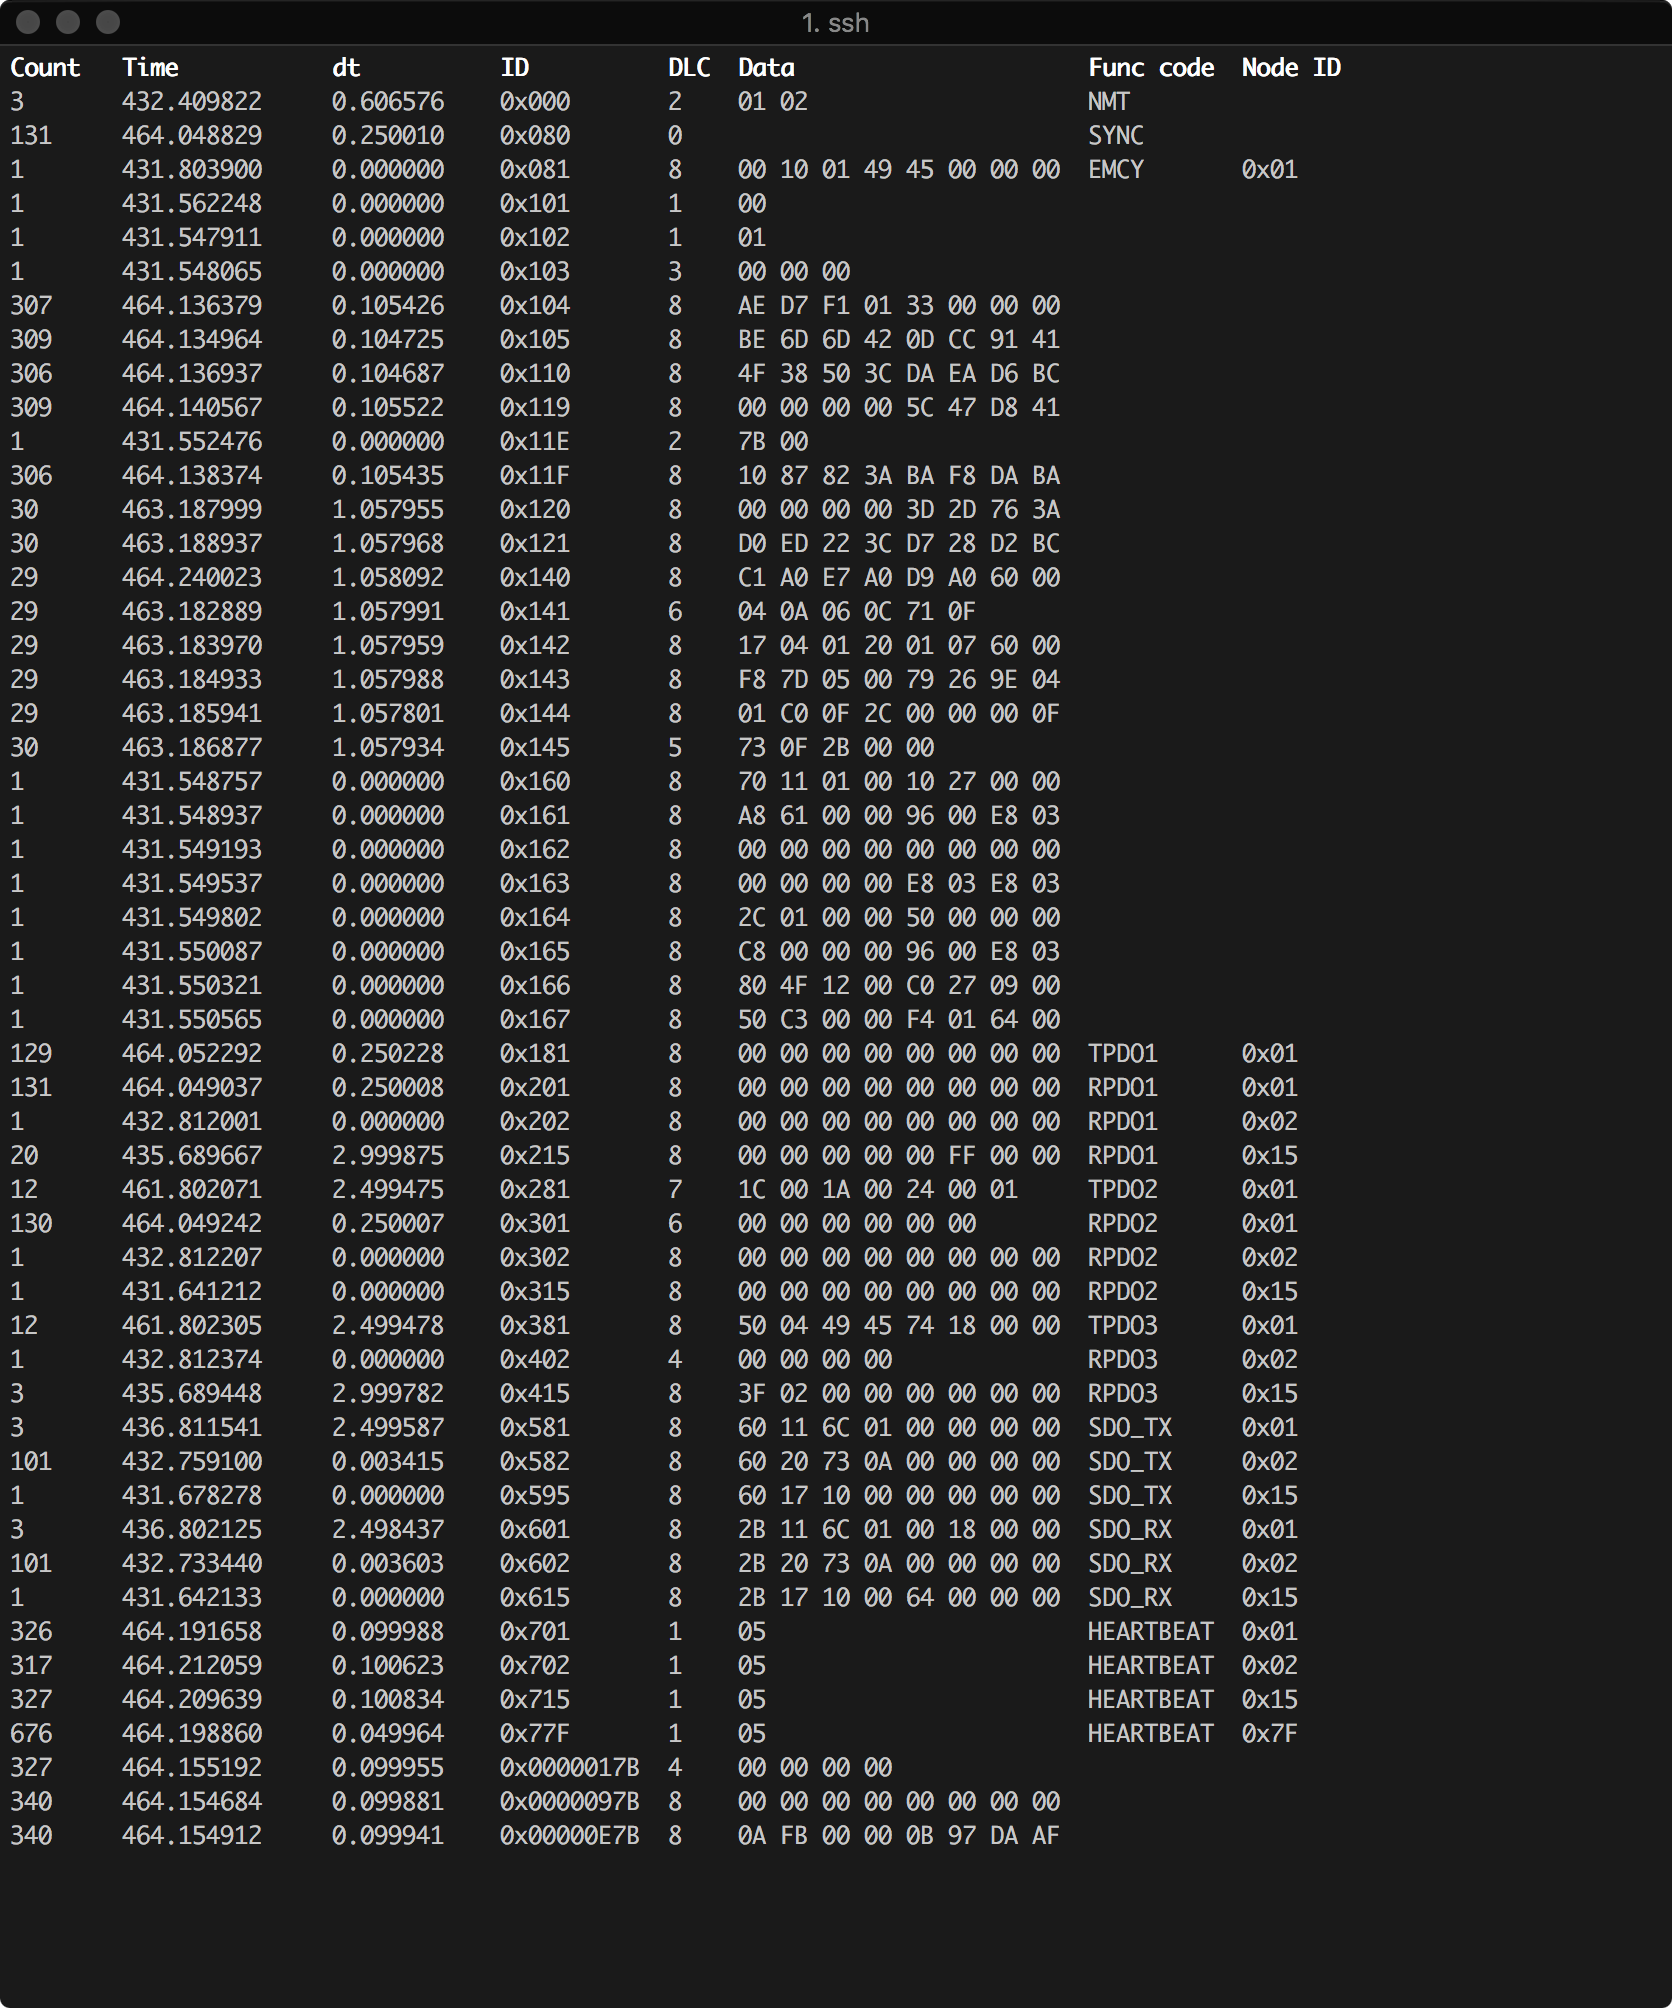
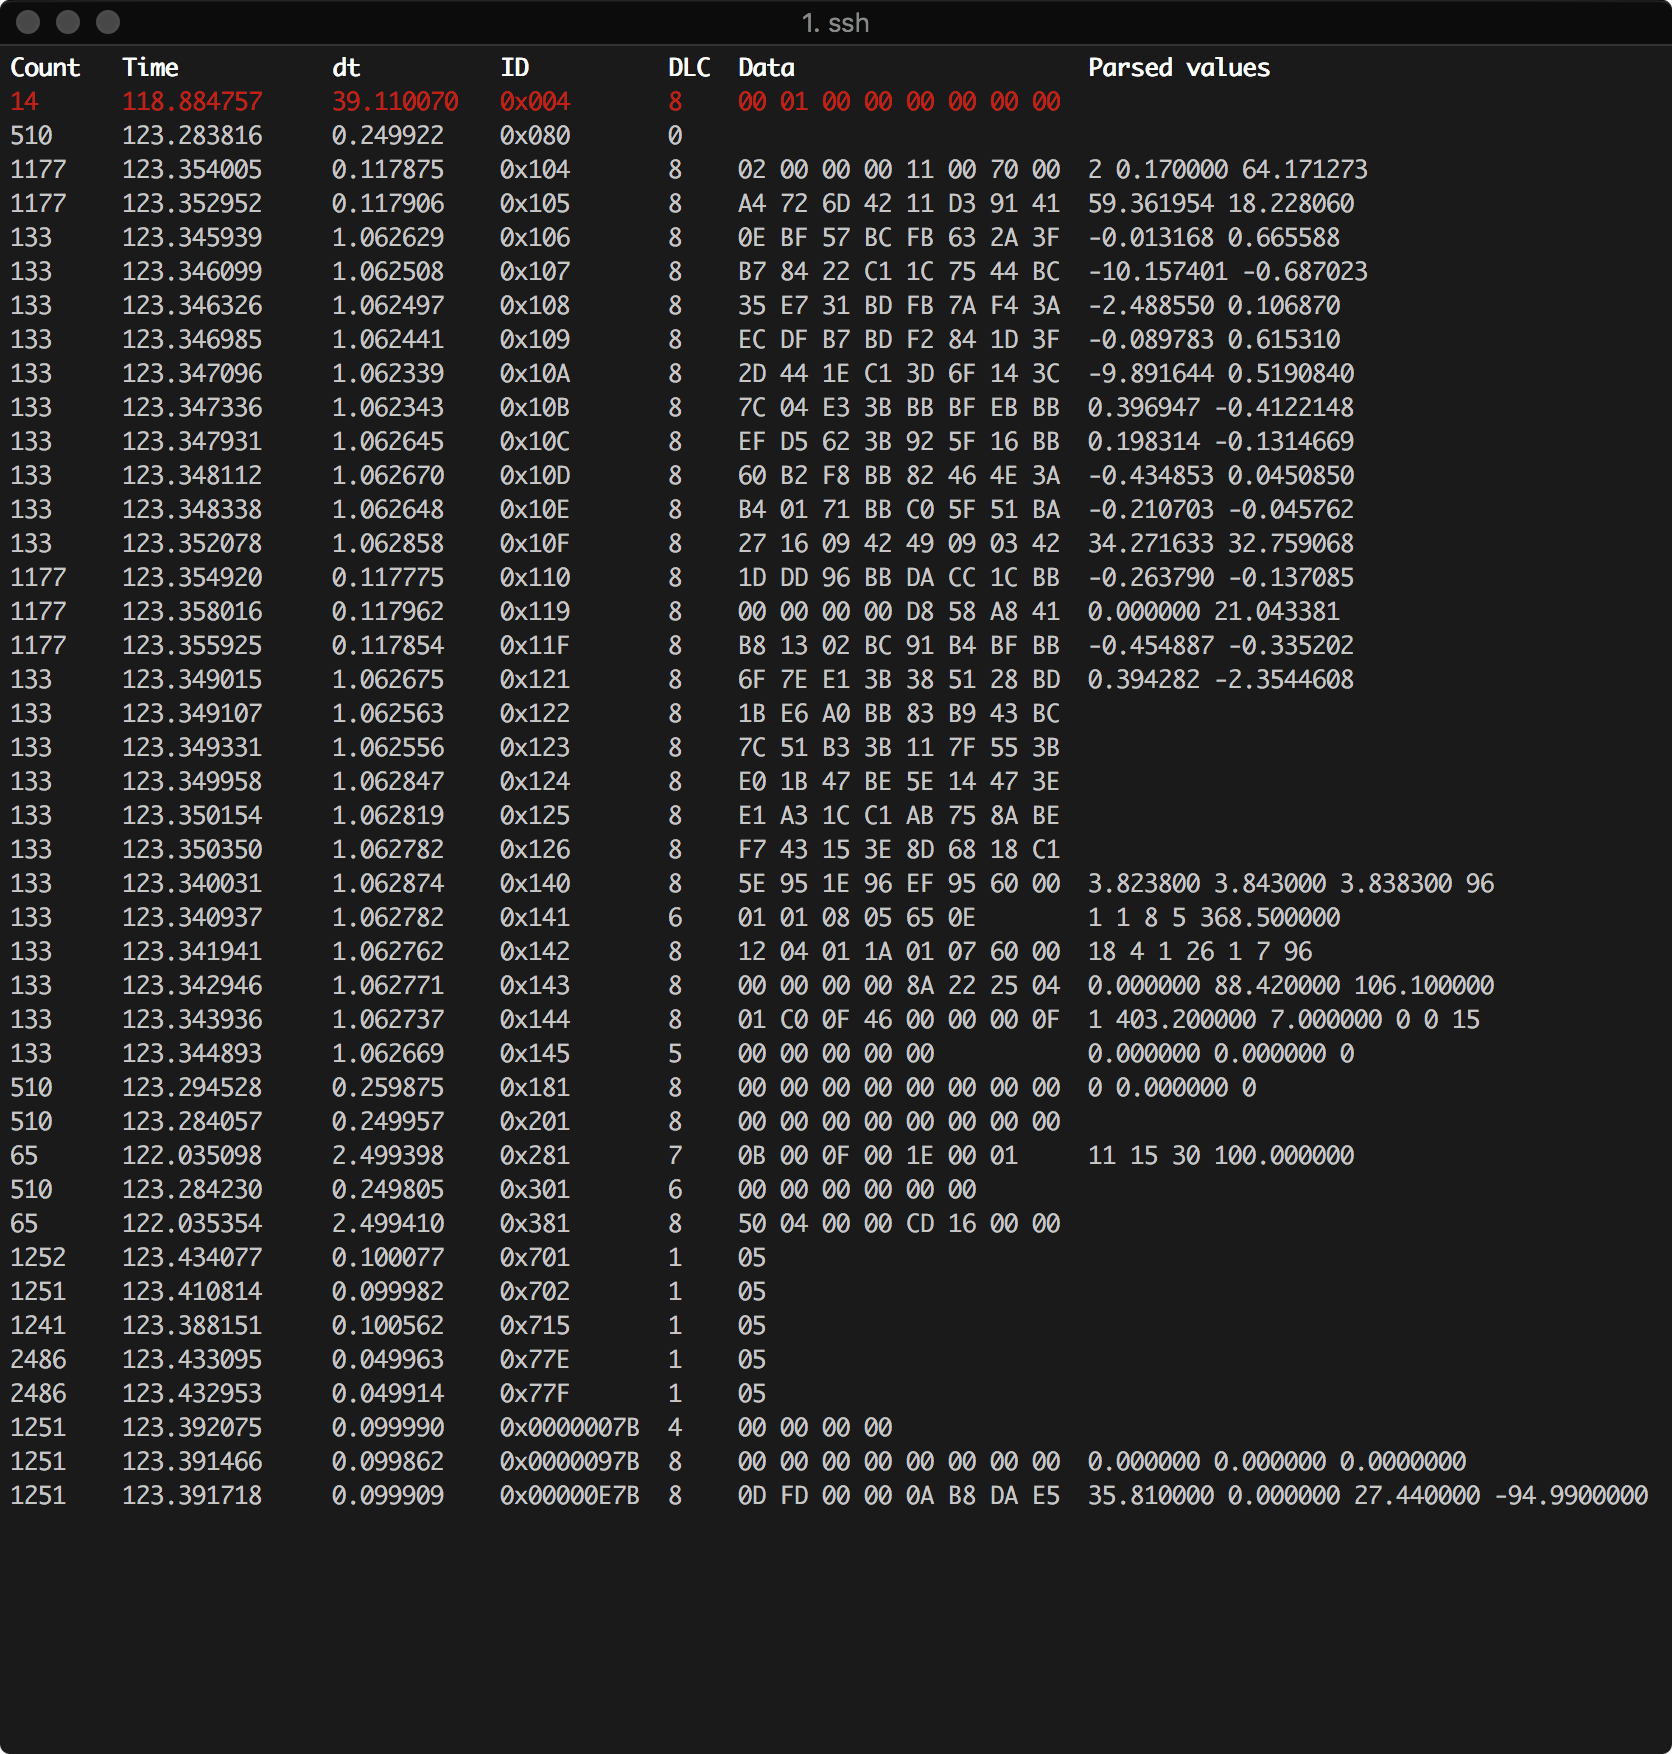
Removed CANopen from the documentation and take new screenshot showing how the decoding looks like

Changed region(s): [[0.4043, 0.0, 0.9952, 0.9236], [0.1866, 0.0308, 0.4043, 0.9236], [0.0, 0.0, 0.1555, 0.9236]]

diff --git a/doc/scripts.rst b/doc/scripts.rst
@@ -92,9 +92,7 @@ A screenshot of the application can be seen below:
 .. image:: ../images/viewer.png
     :width: 100%
 
-The first column is the number of times a frame with the particular ID has been received, next is the timestamp of the frame relative to the first received message. The third column is the time between the current frame relative to the previous one. Next is the length of the frame and then the data.
-
-The last two columns are the decoded CANopen function code and node ID. If CANopen is not used, then they can simply be ignored.
+The first column is the number of times a frame with the particular ID that has been received, next is the timestamp of the frame relative to the first received message. The third column is the time between the current frame relative to the previous one. Next is the length of the frame, the data and then the decoded data converted according to the ``-d`` argument. The top red row indicates an error frame.
 
 Command line arguments
 ^^^^^^^^^^^^^^^^^^^^^^
@@ -107,7 +105,6 @@ The full usage page can be seen below::
                                 [-d {<id>:<format>,<id>:<format>:<scaling1>:...:<scalingN>,file.txt}]
                                 [-f {<can_id>:<can_mask>,<can_id>~<can_mask>}]
                                 [-i {iscan,ixxat,kvaser,neovi,nican,pcan,serial,slcan,socketcan,socketcan_ctypes,socketcan_native,usb2can,vector,virtual}]
-                                [--ignore-canopen]
 
     A simple CAN viewer terminal application written in Python
 
@@ -166,7 +163,6 @@ The full usage page can be seen below::
                             Note that the ID and mask are alway interpreted as hex values
       -i, --interface {iscan,ixxat,kvaser,neovi,nican,pcan,serial,slcan,socketcan,socketcan_ctypes,socketcan_native,usb2can,vector,virtual}
                             Specify the backend CAN interface to use.
-      --ignore-canopen      Do not print CANopen information
 
     Shortcuts:
             +---------+-------------------------+
